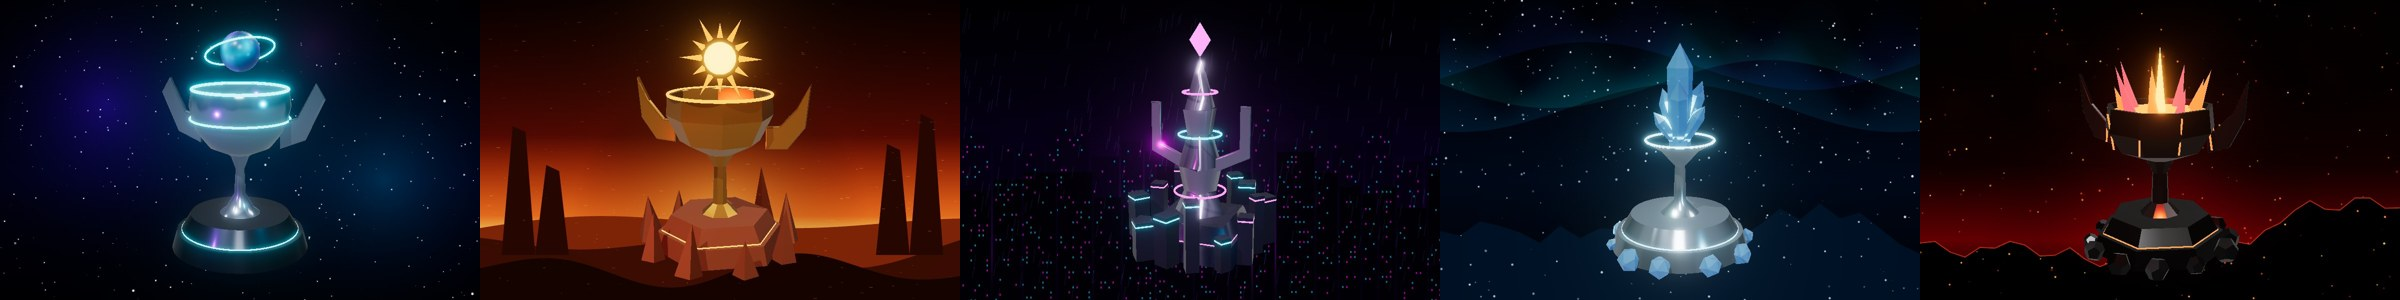
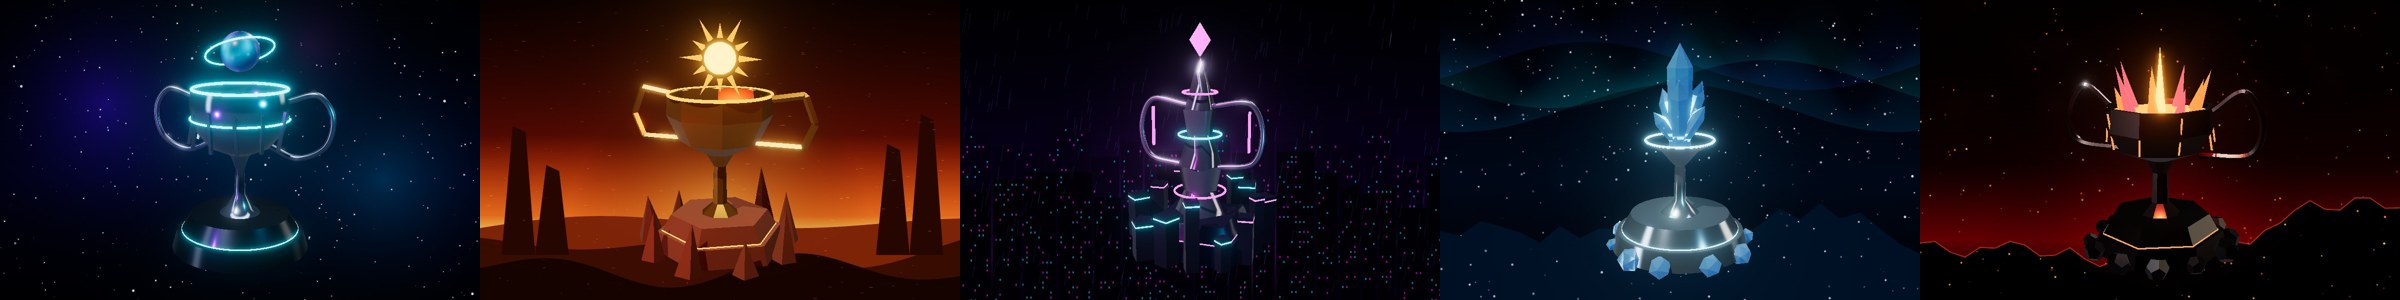
Trophies: real loop handles and reflective bowls
Handles are now tubes swept round an open loop, so a hand could fit
through, styled per cup (smooth for Nebula and Skyline, square and angular
for Sunscorch, horn-like for Inferno). The environment map is a dark
studio with a few distinct light strips instead of a uniformly bright
room, so chrome shows curved reflections, and the Nebula bowl gets raised
ribs so its curvature reads even in flat tones. The renderer page also
exposes renderCupView(id, view) for close-up checks from any angle.

Claude-Session: https://claude.ai/code/session_01TZJVudBJMZ6xfy6YUNRPQe

diff --git a/scripts/cup-trophies.ts b/scripts/cup-trophies.ts
@@ -3,7 +3,6 @@
 // exported as a JPEG to public/assets/cups/cup_<id>.jpg. See
 // render-cup-trophies.html for how to run it.
 import * as THREE from 'three';
-import { RoomEnvironment } from 'three/examples/jsm/environments/RoomEnvironment.js';
 import { EffectComposer } from 'three/examples/jsm/postprocessing/EffectComposer.js';
 import { RenderPass } from 'three/examples/jsm/postprocessing/RenderPass.js';
 import { UnrealBloomPass } from 'three/examples/jsm/postprocessing/UnrealBloomPass.js';
@@ -60,18 +59,25 @@ function cylinder(rTop: number, rBottom: number, h: number, y: number, material:
     return m;
 }
 
-// A swept blade used for handles: extruded 2D outline, centred on its depth.
-function fin(outline: [number, number][], depth: number, material: THREE.Material) {
-    const shape = new THREE.Shape(outline.map(([x, y]) => new THREE.Vector2(x, y)));
-    const geo = new THREE.ExtrudeGeometry(shape, {
-        depth,
-        bevelEnabled: true,
-        bevelThickness: 0.02,
-        bevelSize: 0.02,
-        bevelSegments: 3,
-    });
-    geo.translate(0, 0, -depth / 2);
-    return new THREE.Mesh(geo, material);
+// A real loop handle: a tube swept along a path in the XY plane, starting and
+// ending inside the bowl surface so it reads as attached, with an open gap a
+// hand could fit through. `smooth` rounds the path; off, it keeps hard corners.
+function loopHandle(
+    points: [number, number][],
+    radius: number,
+    material: THREE.Material,
+    opts: { smooth?: boolean; sides?: number } = {},
+) {
+    const v = points.map(([x, y]) => new THREE.Vector3(x, y, 0));
+    let path: THREE.Curve<THREE.Vector3>;
+    if (opts.smooth ?? true) {
+        path = new THREE.CatmullRomCurve3(v, false, 'centripetal');
+    } else {
+        const cp = new THREE.CurvePath<THREE.Vector3>();
+        for (let i = 0; i < v.length - 1; i++) cp.add(new THREE.LineCurve3(v[i], v[i + 1]));
+        path = cp;
+    }
+    return new THREE.Mesh(new THREE.TubeGeometry(path, 64, radius, opts.sides ?? 12, false), material);
 }
 
 // Mirror a handle onto both sides of the trophy.
@@ -147,7 +153,7 @@ const NEBULA: TrophySpec = {
         halo(ctx, w, h, 'rgba(0,229,255,0.12)');
     },
     build: (root, scene) => {
-        const chrome = metal(0x9fb2c8, 0.1);
+        const chrome = metal(0x7f93ab, 0.12);
         const gun = metal(0x2a3140, 0.35);
         const cyan = glow(0x00e5ff, 2.4);
         plinth(root, gun, cyan);
@@ -159,9 +165,20 @@ const NEBULA: TrophySpec = {
         root.add(bowl);
         root.add(ring(0.73, 0.025, 2.5, cyan));
         root.add(ring(0.765, 0.018, 2.05, cyan));
+        // Raised ribs down the bowl: each catches the key light differently, so
+        // the curvature reads even where the smooth surface is a flat tone.
+        for (let i = 0; i < 12; i++) {
+            const a = (i / 12) * Math.PI * 2 + Math.PI / 12;
+            const rib = new THREE.Mesh(new THREE.BoxGeometry(0.05, 0.62, 0.05), chrome);
+            rib.position.set(Math.cos(a) * 0.745, 1.93, Math.sin(a) * 0.745);
+            rib.rotation.y = -a;
+            rib.rotation.z = Math.cos(a) * -0.22;
+            rib.rotation.x = Math.sin(a) * 0.22;
+            root.add(rib);
+        }
 
-        // Swept-back wing handles.
-        pair(() => fin([[0, 0], [0.35, 0.15], [0.62, 0.75], [0.5, 0.95], [0.25, 0.45], [0, 0.35]], 0.05, chrome), 0.66, 1.65, root);
+        // Swept loop handles, open enough to put a hand through.
+        pair(() => loopHandle([[0.06, 0.4], [0.5, 0.5], [0.72, 0.2], [0.62, -0.25], [0.2, -0.45], [-0.22, -0.3]], 0.045, chrome), 0.7, 1.95, root);
 
         // Floating nebula orb with a tilted orbit ring.
         const orbTex = canvasTexture(256, 128, (c) => {
@@ -251,8 +268,8 @@ const SUNSCORCH: TrophySpec = {
         root.add(bowl);
         root.add(ring(0.79, 0.025, 2.42, orange));
 
-        // Angular blade handles.
-        pair(() => fin([[0, 0], [0.3, 0.02], [0.55, 0.35], [0.62, 0.95], [0.45, 0.6], [0.2, 0.32], [0, 0.3]], 0.06, gold), 0.75, 1.65, root);
+        // Angular loop handles, square in section to match the faceted bowl.
+        pair(() => loopHandle([[0.02, 0.38], [0.5, 0.46], [0.66, 0.05], [0.5, -0.32], [-0.22, -0.32]], 0.055, gold, { smooth: false, sides: 4 }), 0.8, 2.0, root);
 
         // Sun disk crown: glowing core with radiating spikes.
         const sun = new THREE.Group();
@@ -350,12 +367,12 @@ const SKYLINE: TrophySpec = {
         root.add(spire);
         [0.9, 1.8, 2.45].forEach((y, i) => root.add(ring(0.4 - i * 0.07, 0.018, y, i % 2 ? cyan : magenta)));
 
-        // Neon "wings" that read as skyline handles.
-        pair(() => fin([[0, 0], [0.5, 0.25], [0.5, 1.0], [0.38, 1.0], [0.38, 0.35], [0, 0.18]], 0.04, chrome), 0.28, 1.25, root);
+        // Chrome loop arms off the spire, each framing a neon bar.
+        pair(() => loopHandle([[0.0, 0.0], [0.55, 0.12], [0.68, 0.6], [0.5, 1.0], [-0.1, 0.95]], 0.04, chrome), 0.3, 1.3, root);
         pair(() => {
             const bar = new THREE.Mesh(new THREE.BoxGeometry(0.03, 0.62, 0.06), magenta);
             return bar;
-        }, 0.75, 1.88, root);
+        }, 0.78, 1.88, root);
 
         const top = new THREE.Mesh(new THREE.OctahedronGeometry(0.17), glow(0xff3df0, 3.0));
         top.position.y = 3.22;
@@ -556,8 +573,8 @@ const INFERNO: TrophySpec = {
         centre.position.y = 2.15;
         root.add(centre);
 
-        // Horn-like handles.
-        pair(() => fin([[0, 0], [0.3, 0.1], [0.5, 0.5], [0.55, 1.05], [0.38, 0.6], [0.1, 0.3], [0, 0.28]], 0.06, iron), 0.78, 1.6, root);
+        // Horn-like loop handles curling up from the bowl.
+        pair(() => loopHandle([[0.0, 0.3], [0.45, 0.6], [0.72, 0.2], [0.6, -0.28], [-0.2, -0.38]], 0.055, iron, { sides: 6 }), 0.84, 1.9, root);
 
         const l1 = new THREE.PointLight(0xff5020, 9, 10);
         l1.position.set(0, 3.2, 1.5);
@@ -578,13 +595,43 @@ renderer.toneMapping = THREE.ACESFilmicToneMapping;
 renderer.toneMappingExposure = 1.0;
 renderer.shadowMap.enabled = true;
 renderer.shadowMap.type = THREE.PCFSoftShadowMap;
+// A dark studio with a few distinct soft-box strips. Metal needs structured
+// reflections to read as curved; a uniformly bright room makes it look flat.
+function studioEnvironment() {
+    const env = new THREE.Scene();
+    env.add(new THREE.Mesh(new THREE.SphereGeometry(50, 16, 8), new THREE.MeshBasicMaterial({ color: 0x06070c, side: THREE.BackSide })));
+    const strip = (w: number, h: number, color: THREE.ColorRepresentation, pos: [number, number, number], look: [number, number, number]) => {
+        const m = new THREE.Mesh(new THREE.PlaneGeometry(w, h), new THREE.MeshBasicMaterial({ color }));
+        m.position.set(...pos);
+        m.lookAt(...look);
+        env.add(m);
+    };
+    strip(24, 3, new THREE.Color(5, 5, 5.5), [0, 14, 2], [0, 0, 0]);           // long overhead strip
+    strip(2.5, 16, new THREE.Color(3.5, 3.8, 4.5), [-14, 4, 4], [0, 2, 0]);   // tall cool strip, left
+    strip(4, 7, new THREE.Color(2.2, 1.8, 1.4), [13, 3, -5], [0, 2, 0]);      // smaller warm strip, right
+    strip(40, 40, new THREE.Color(0.12, 0.12, 0.14), [0, -6, 0], [0, 0, 0]);  // dark floor
+    return env;
+}
 const pmrem = new THREE.PMREMGenerator(renderer);
-const envMap = pmrem.fromScene(new RoomEnvironment(), 0.04).texture;
+const envMap = pmrem.fromScene(studioEnvironment(), 0.04).texture;
 
-function renderTrophy(spec: TrophySpec): string {
+// Camera for a render. The card art uses CARD_VIEW; close-ups for checking a
+// model are rendered through window.renderCupView with their own view.
+interface View {
+    position: [number, number, number];
+    target: [number, number, number];
+    fov?: number;
+    yaw?: number; // trophy rotation about Y
+}
+
+// Looking slightly down into the bowl shows its opening as an ellipse, the
+// strongest cue that the cup has depth. Slight yaw so it isn't a flat elevation.
+const CARD_VIEW: View = { position: [0, 3.6, 8.4], target: [0, 1.55, 0], fov: 30, yaw: -0.35 };
+
+function renderTrophy(spec: TrophySpec, view: View = CARD_VIEW): string {
     const scene = new THREE.Scene();
     scene.environment = envMap;
-    scene.environmentIntensity = 0.25;
+    scene.environmentIntensity = 0.7;
     scene.background = canvasTexture(WIDTH, HEIGHT, (ctx) => spec.background(ctx, WIDTH, HEIGHT, mulberry32(42)));
 
     // Key from upper-left, rim from behind-right, so every surface gets a lit
@@ -604,8 +651,7 @@ function renderTrophy(spec: TrophySpec): string {
 
     const root = new THREE.Group();
     spec.build(root, scene);
-    // Slight turn so the trophy reads as 3D rather than a flat elevation.
-    root.rotation.y = -0.35;
+    root.rotation.y = view.yaw ?? 0;
     root.traverse((o) => {
         if (o instanceof THREE.Mesh) {
             o.castShadow = true;
@@ -614,11 +660,9 @@ function renderTrophy(spec: TrophySpec): string {
     });
     scene.add(root);
 
-    const camera = new THREE.PerspectiveCamera(30, WIDTH / HEIGHT, 0.1, 100);
-    // Looking slightly down into the bowl shows its opening as an ellipse,
-    // the strongest cue that the cup has depth.
-    camera.position.set(0, 3.6, 8.4);
-    camera.lookAt(0, 1.55, 0);
+    const camera = new THREE.PerspectiveCamera(view.fov ?? 30, WIDTH / HEIGHT, 0.1, 100);
+    camera.position.set(...view.position);
+    camera.lookAt(...view.target);
 
     const composer = new EffectComposer(renderer);
     composer.addPass(new RenderPass(scene, camera));
@@ -656,5 +700,8 @@ for (const spec of TROPHIES) {
 
 document.getElementById('download-all')!.onclick = () => results.forEach((r) => download(r.id, r.url));
 
-// Exposed for headless capture (e.g. a Playwright script reading the data URLs).
-(window as unknown as { cupTrophies: typeof results }).cupTrophies = results;
+// Exposed for headless capture (e.g. a Playwright script reading the data URLs)
+// and for close-up checks of a single trophy from any angle.
+const w = window as unknown as { cupTrophies: typeof results; renderCupView: (id: string, view: View) => string };
+w.cupTrophies = results;
+w.renderCupView = (id, view) => renderTrophy(TROPHIES.find((t) => t.id === id)!, view);
